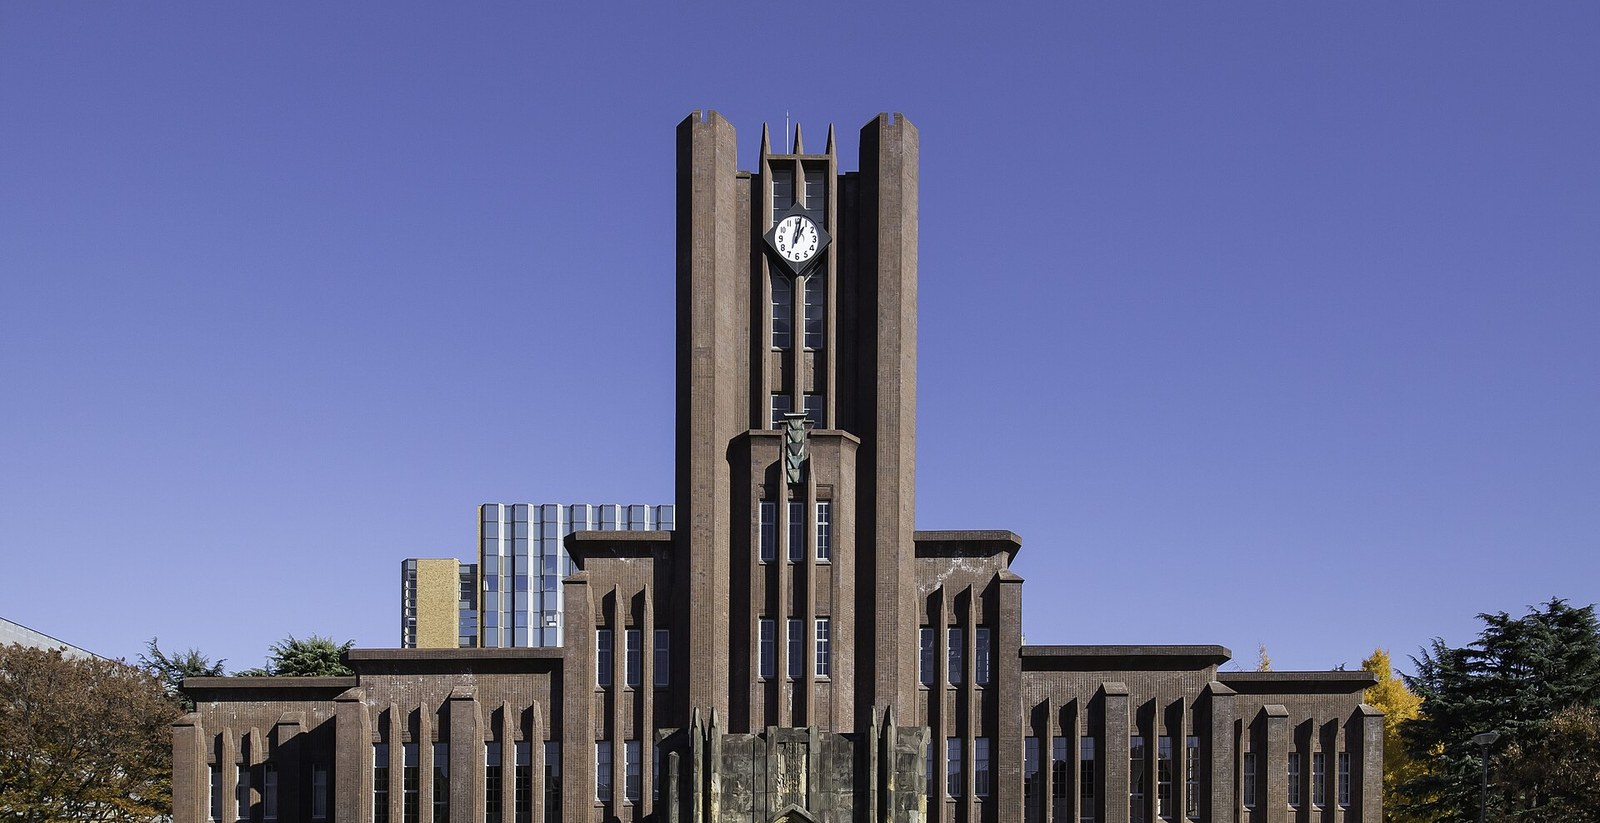
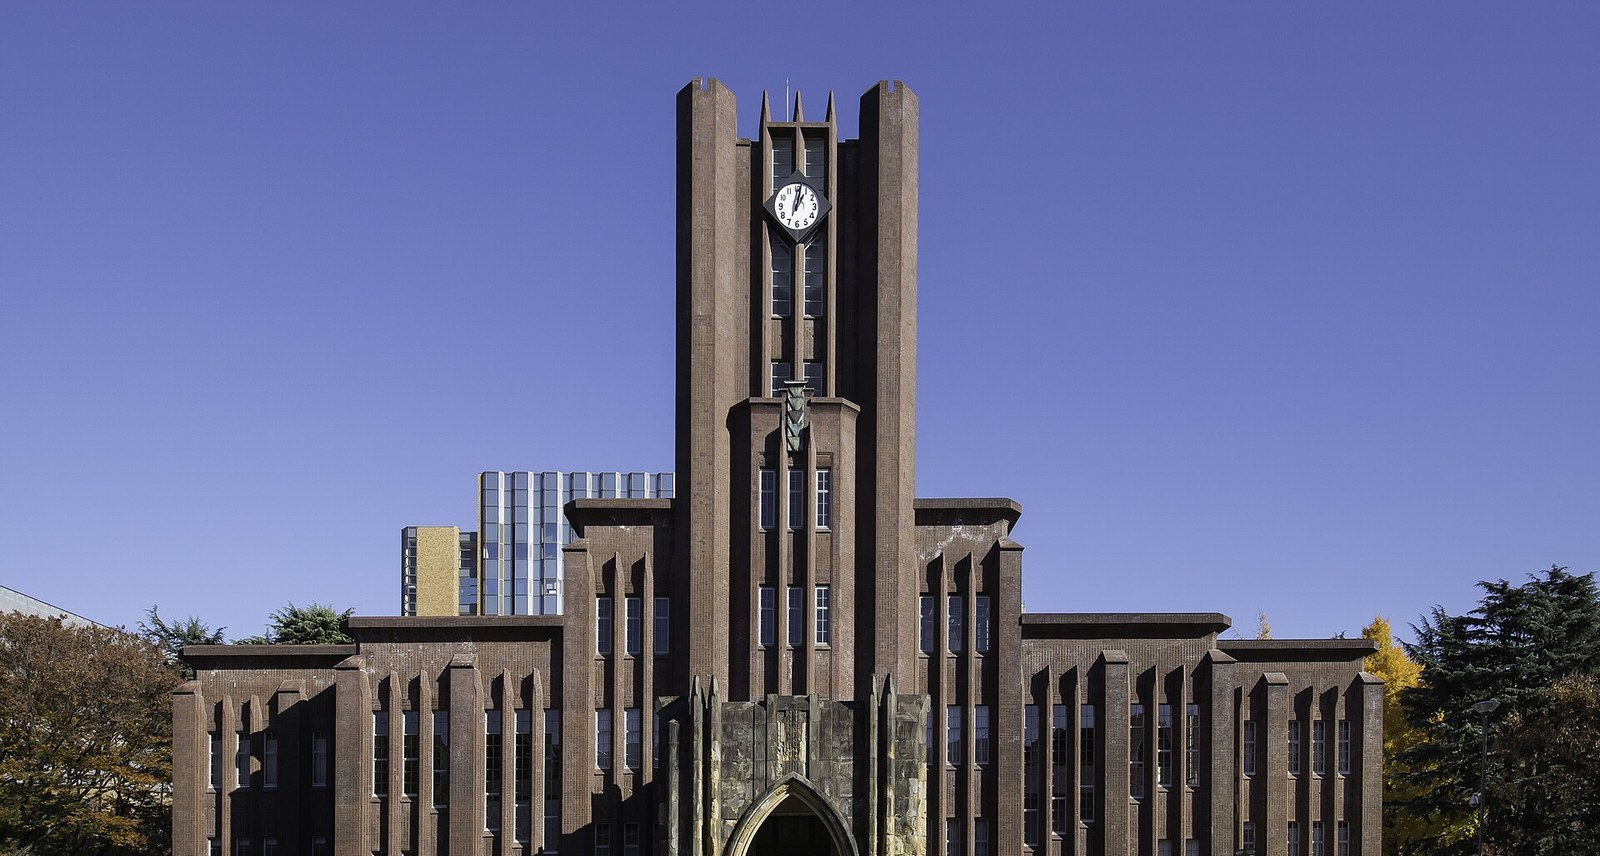
학생회 배너 - 넓은 화면에서도 시계가 잘리지 않게 위쪽 기준

Changed region(s): [[0.0, 0.0911, 1.0, 1.0]]

diff --git a/YB/index.html b/YB/index.html
@@ -89,7 +89,7 @@
   section[id]{scroll-margin-top:84px;}
   .secbanner{position:relative;line-height:0;margin:0 0 34px;overflow:hidden;}
   .secbanner img{width:100%;height:clamp(240px,34vw,430px);object-fit:cover;object-position:center 42%;display:block;}
-  #council .secbanner img{height:clamp(300px,46vw,620px);object-position:center 18%;}
+  #council .secbanner img{height:clamp(300px,42vw,560px);object-position:center top;}
   .secbanner::after{content:"";position:absolute;inset:0;pointer-events:none;
     background:linear-gradient(180deg,rgba(8,26,15,.42) 0%,rgba(8,26,15,.10) 34%,rgba(8,26,15,.62) 100%);}
   .sb-tx{position:absolute;left:0;right:0;top:auto;bottom:56px;z-index:2;line-height:1.35;
